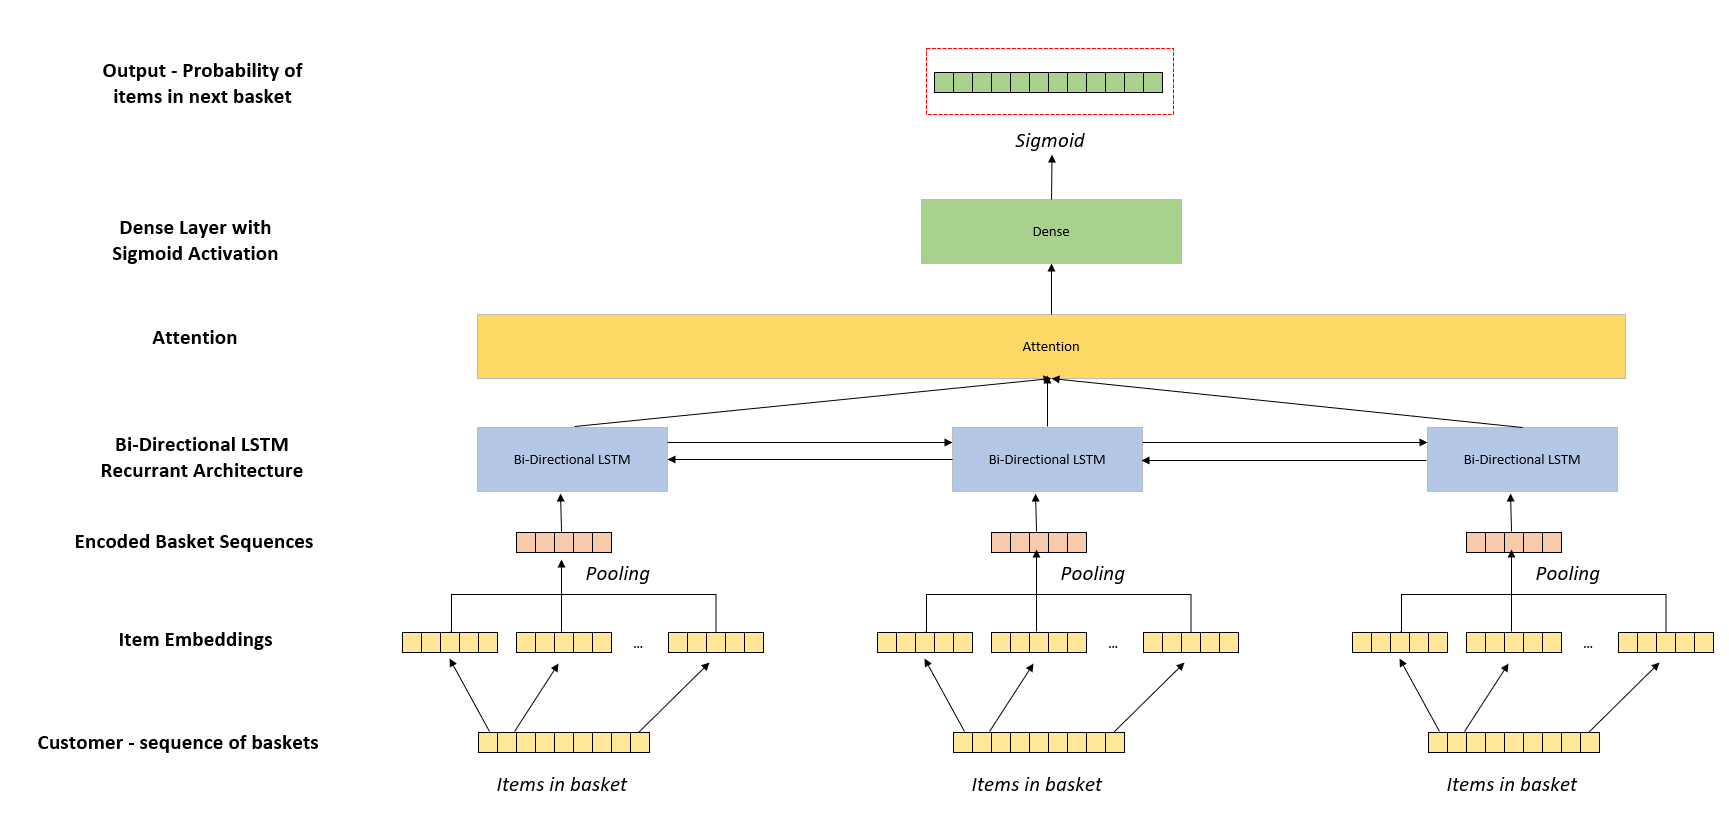
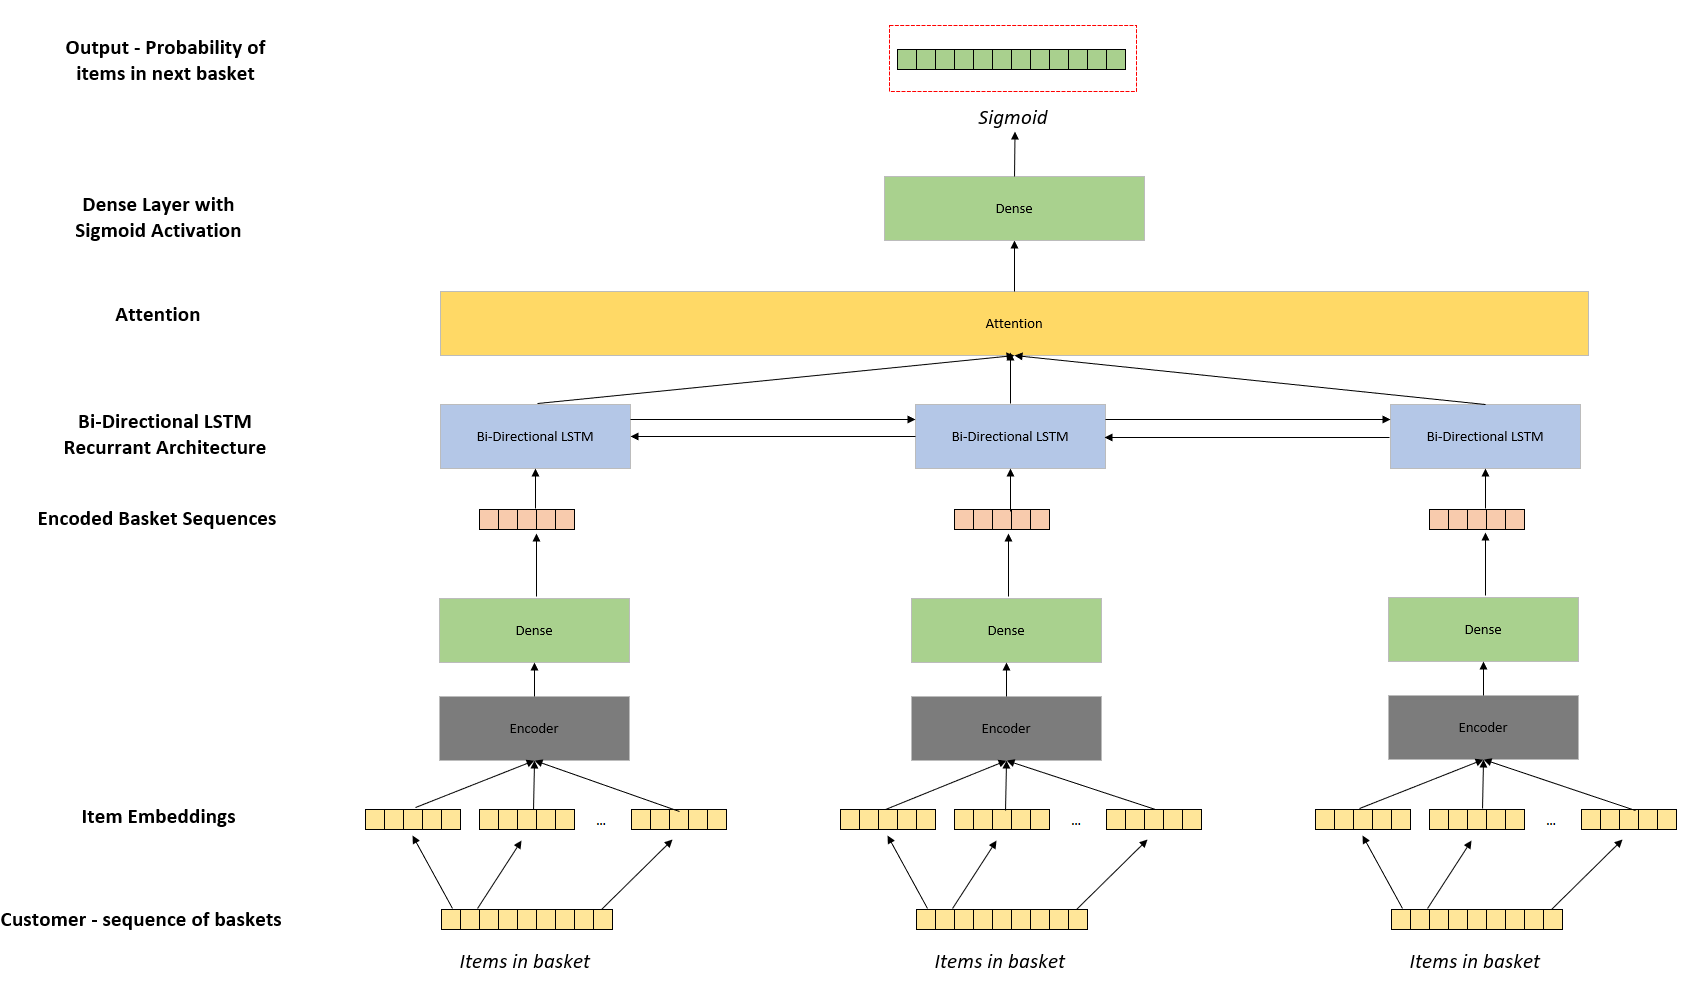
update readme

diff --git a/README.md b/README.md
@@ -5,8 +5,8 @@
 This project contains a pipeline, orchestrated with Airflow, for generating predictions for a customers next basket
 using sequence models.  
 
-The initial version of the code utilizes an LSTM model with Attention to generate probabilities that items will be 
-found within the customers next transaction.
+The initial version of the code utilizes encoder layers with self-attention and an LSTM model with Attention to 
+generate probabilities that items will be found within the customers next transaction.
 
 ### Data utilized
 
@@ -28,8 +28,19 @@ The next basket prediction model is based on the following architecture:
 ![](Images/next_bask_architecture.PNG)  
 
 The input data contains sequences of customer baskets.  The model is trained by first converting the items into
-embeddings.  A representation of the basket is then generated using average pooling.  This representation of the
-basket is then passed through a bi-directional LSTM layer to allow the model to learn from all customer baskets.  
+embeddings.  These embeddings are passed through a standard encoder layer from the transformer architecture:
+
+![](Images/encoder.PNG)
+
+The idea of the encoder is to allow the model to better learn relationships and similarities between items, 
+e.g. items that never appear together (substitutes) and items that frequently appear together (complimentary items).
+In addition, the encoder layer allows for an optional positional encoding - while in traditional brick and mortar 
+retail examples this may not be relevant in e-commerce the order in which items are added to carts could add additional
+insights into the prediction.
+
+After encoding, a representation of the basket is then generated through either a dense layer (as illustrated) or
+simple average pooling.  This representation of the basket is then passed through a bi-directional LSTM layer to 
+allow the model to learn from all customer baskets.  
 
 The output of the LSTM layer is passed through an Attention layer, this can help with predictions as the model learns
 to "attend" to the correct parts of the basket sequence.  For example, in grocery, baskets often rotate between "full"
